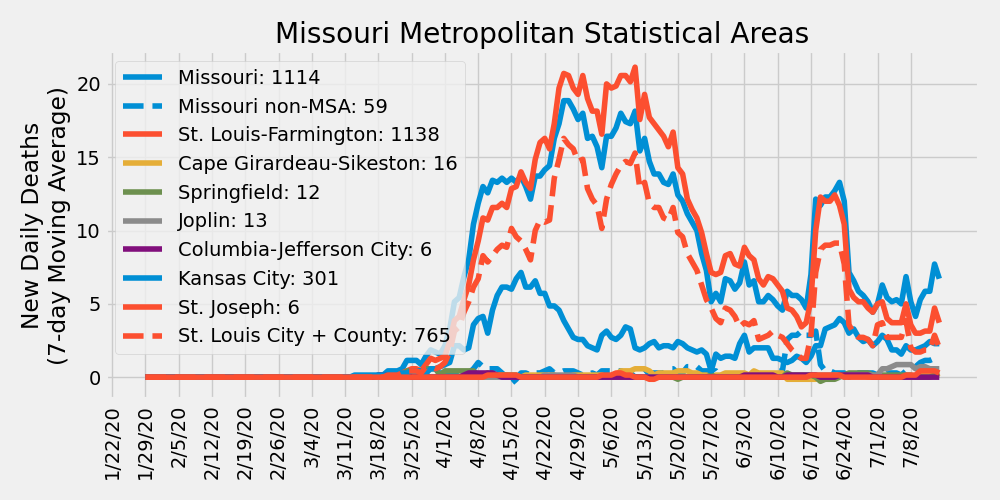
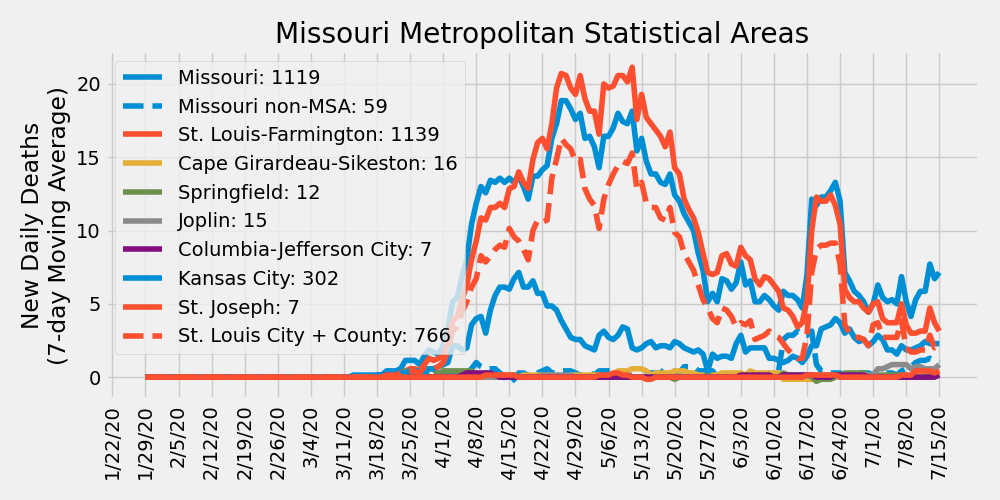
update 7/16/2020

diff --git a/ajvogt-analysis/missouri_analysis.md b/ajvogt-analysis/missouri_analysis.md
@@ -1,6 +1,6 @@
 # COVID-19 Missouri Statistics & Regional Breakdowns
 Author: Adam J. Vogt  
-Updated: 07/15/2020  
+Updated: 07/16/2020  
 Source: [COVID-19 Data Repository by the Center for Systems Science and Engineering (CSSE) at Johns Hopkins University](https://github.com/CSSEGISandData/COVID-19)  
 Source Code: `/ajvogt-analysis/mo_analysis_script.py`  
 Release Notes: [release_notes.md](https://github.com/ajvogt/COVID-19/blob/master/ajvogt-analysis/release_notes.md)
@@ -27,129 +27,129 @@ Legend shows cumulative confirmed cases
 ## Metropolitan Statistical Area (MSA) Counties
 | MSA | State | County | Total Cases | Total Deaths |
 |-----|-------|--------|---|---|
-| St. Louis-Farmington | Missouri | Lincoln | 122 | 1 |
-| St. Louis-Farmington | Missouri | Warren | 60 | 0 |
-| St. Louis-Farmington | Missouri | Franklin | 305 | 18 |
-| St. Louis-Farmington | Missouri | Jefferson | 613 | 22 |
-| St. Louis-Farmington | Missouri | St. Charles | 1437 | 79 |
-| St. Louis-Farmington | Missouri | St. Louis | 8140 | 604 |
-| St. Louis-Farmington | Missouri | St. Louis City | 3044 | 161 |
-| St. Louis-Farmington | Missouri | St. Francois | 173 | 2 |
-| St. Louis-Farmington | Illinois | Monroe | 170 | 13 |
-| St. Louis-Farmington | Illinois | St. Clair | 2386 | 145 |
-| St. Louis-Farmington | Illinois | Madison | 1285 | 71 |
-| St. Louis-Farmington | Illinois | Macoupin | 72 | 3 |
-| St. Louis-Farmington | Illinois | Jersey | 45 | 1 |
-| St. Louis-Farmington | Illinois | Clinton | 252 | 16 |
+| St. Louis-Farmington | Missouri | Lincoln | 127 | 1 |
+| St. Louis-Farmington | Missouri | Warren | 65 | 0 |
+| St. Louis-Farmington | Missouri | Franklin | 317 | 18 |
+| St. Louis-Farmington | Missouri | Jefferson | 635 | 22 |
+| St. Louis-Farmington | Missouri | St. Charles | 1496 | 79 |
+| St. Louis-Farmington | Missouri | St. Louis | 8300 | 605 |
+| St. Louis-Farmington | Missouri | St. Louis City | 3134 | 161 |
+| St. Louis-Farmington | Missouri | St. Francois | 174 | 2 |
+| St. Louis-Farmington | Illinois | Monroe | 171 | 13 |
+| St. Louis-Farmington | Illinois | St. Clair | 2436 | 145 |
+| St. Louis-Farmington | Illinois | Madison | 1310 | 71 |
+| St. Louis-Farmington | Illinois | Macoupin | 75 | 3 |
+| St. Louis-Farmington | Illinois | Jersey | 48 | 1 |
+| St. Louis-Farmington | Illinois | Clinton | 256 | 17 |
 | St. Louis-Farmington | Illinois | Calhoun | 2 | 0 |
-| St. Louis-Farmington | Illinois | Bond | 22 | 2 |
-| Cape Girardeau-Sikeston | Missouri | Cape Girardeau | 361 | 3 |
-| Cape Girardeau-Sikeston | Missouri | Bollinger | 27 | 1 |
-| Cape Girardeau-Sikeston | Illinois | Alexander | 25 | 0 |
-| Cape Girardeau-Sikeston | Missouri | Scott | 219 | 12 |
-| Springfield | Missouri | Greene | 492 | 9 |
-| Springfield | Missouri | Christian | 80 | 1 |
-| Springfield | Missouri | Webster | 55 | 1 |
-| Springfield | Missouri | Polk | 22 | 0 |
-| Springfield | Missouri | Dallas | 20 | 1 |
-| Joplin | Missouri | Jasper | 1056 | 11 |
-| Joplin | Missouri | Newton | 587 | 2 |
-| Columbia-Jefferson City | Missouri | Howard | 5 | 0 |
-| Columbia-Jefferson City | Missouri | Boone | 627 | 2 |
-| Columbia-Jefferson City | Missouri | Cooper | 30 | 0 |
-| Columbia-Jefferson City | Missouri | Moniteau | 68 | 1 |
-| Columbia-Jefferson City | Missouri | Cole | 116 | 2 |
+| St. Louis-Farmington | Illinois | Bond | 21 | 1 |
+| Cape Girardeau-Sikeston | Missouri | Cape Girardeau | 375 | 3 |
+| Cape Girardeau-Sikeston | Missouri | Bollinger | 30 | 0 |
+| Cape Girardeau-Sikeston | Illinois | Alexander | 26 | 0 |
+| Cape Girardeau-Sikeston | Missouri | Scott | 235 | 13 |
+| Springfield | Missouri | Greene | 517 | 9 |
+| Springfield | Missouri | Christian | 90 | 1 |
+| Springfield | Missouri | Webster | 60 | 1 |
+| Springfield | Missouri | Polk | 23 | 0 |
+| Springfield | Missouri | Dallas | 22 | 1 |
+| Joplin | Missouri | Jasper | 1090 | 13 |
+| Joplin | Missouri | Newton | 607 | 2 |
+| Columbia-Jefferson City | Missouri | Howard | 8 | 0 |
+| Columbia-Jefferson City | Missouri | Boone | 639 | 2 |
+| Columbia-Jefferson City | Missouri | Cooper | 32 | 0 |
+| Columbia-Jefferson City | Missouri | Moniteau | 69 | 2 |
+| Columbia-Jefferson City | Missouri | Cole | 126 | 2 |
 | Columbia-Jefferson City | Missouri | Callaway | 64 | 1 |
 | Columbia-Jefferson City | Missouri | Osage | 15 | 0 |
-| Kansas City | Missouri | Kansas City | 3215 | 36 |
-| Kansas City | Missouri | Jackson | 1646 | 46 |
-| Kansas City | Missouri | Clay | 579 | 13 |
-| Kansas City | Missouri | Cass | 217 | 8 |
-| Kansas City | Missouri | Platte | 164 | 6 |
+| Kansas City | Missouri | Kansas City | 3294 | 36 |
+| Kansas City | Missouri | Jackson | 1681 | 46 |
+| Kansas City | Missouri | Clay | 589 | 13 |
+| Kansas City | Missouri | Cass | 225 | 8 |
+| Kansas City | Missouri | Platte | 173 | 6 |
 | Kansas City | Missouri | Lafayette | 104 | 2 |
 | Kansas City | Missouri | Ray | 31 | 0 |
-| Kansas City | Missouri | Clinton | 35 | 0 |
+| Kansas City | Missouri | Clinton | 36 | 0 |
 | Kansas City | Missouri | Bates | 16 | 1 |
 | Kansas City | Missouri | Caldwell | 15 | 1 |
-| Kansas City | Kansas | Johnson | 3158 | 93 |
-| Kansas City | Kansas | Wyandotte | 3114 | 88 |
-| Kansas City | Kansas | Leavenworth | 1227 | 7 |
-| Kansas City | Kansas | Miami | 57 | 0 |
-| Kansas City | Kansas | Linn | 17 | 0 |
+| Kansas City | Kansas | Johnson | 3286 | 94 |
+| Kansas City | Kansas | Wyandotte | 3151 | 88 |
+| Kansas City | Kansas | Leavenworth | 1240 | 7 |
+| Kansas City | Kansas | Miami | 67 | 0 |
+| Kansas City | Kansas | Linn | 18 | 0 |
 | St. Joseph | Missouri | Andrew | 55 | 1 |
-| St. Joseph | Missouri | Buchanan | 956 | 5 |
-| St. Joseph | Missouri | DeKalb | 17 | 0 |
+| St. Joseph | Missouri | Buchanan | 955 | 6 |
+| St. Joseph | Missouri | DeKalb | 19 | 0 |
 | St. Joseph | Kansas | Doniphan | 26 | 0 |
-| Missouri non-MSA | Missouri | Adair |  102 | 0 |
+| Missouri non-MSA | Missouri | Adair |  103 | 0 |
 | Missouri non-MSA | Missouri | Atchison |  6 | 0 |
 | Missouri non-MSA | Missouri | Audrain |  143 | 1 |
-| Missouri non-MSA | Missouri | Barry |  105 | 0 |
-| Missouri non-MSA | Missouri | Barton |  37 | 0 |
+| Missouri non-MSA | Missouri | Barry |  125 | 0 |
+| Missouri non-MSA | Missouri | Barton |  41 | 0 |
 | Missouri non-MSA | Missouri | Benton |  26 | 0 |
 | Missouri non-MSA | Missouri | Butler |  122 | 0 |
-| Missouri non-MSA | Missouri | Camden |  90 | 2 |
-| Missouri non-MSA | Missouri | Carroll |  39 | 0 |
+| Missouri non-MSA | Missouri | Camden |  92 | 2 |
+| Missouri non-MSA | Missouri | Carroll |  41 | 0 |
 | Missouri non-MSA | Missouri | Carter |  8 | 1 |
-| Missouri non-MSA | Missouri | Cedar |  12 | 0 |
+| Missouri non-MSA | Missouri | Cedar |  15 | 0 |
 | Missouri non-MSA | Missouri | Chariton |  7 | 0 |
 | Missouri non-MSA | Missouri | Clark |  2 | 0 |
-| Missouri non-MSA | Missouri | Crawford |  23 | 0 |
+| Missouri non-MSA | Missouri | Crawford |  24 | 0 |
 | Missouri non-MSA | Missouri | Dade |  2 | 0 |
 | Missouri non-MSA | Missouri | Daviess |  11 | 0 |
 | Missouri non-MSA | Missouri | Dent |  9 | 0 |
-| Missouri non-MSA | Missouri | Douglas |  16 | 0 |
-| Missouri non-MSA | Missouri | Dunklin |  136 | 3 |
-| Missouri non-MSA | Missouri | Gasconade |  17 | 0 |
-| Missouri non-MSA | Missouri | Gentry |  67 | 9 |
+| Missouri non-MSA | Missouri | Douglas |  17 | 0 |
+| Missouri non-MSA | Missouri | Dunklin |  138 | 3 |
+| Missouri non-MSA | Missouri | Gasconade |  18 | 0 |
+| Missouri non-MSA | Missouri | Gentry |  68 | 9 |
 | Missouri non-MSA | Missouri | Grundy |  22 | 1 |
-| Missouri non-MSA | Missouri | Harrison |  31 | 0 |
+| Missouri non-MSA | Missouri | Harrison |  33 | 0 |
 | Missouri non-MSA | Missouri | Henry |  27 | 3 |
 | Missouri non-MSA | Missouri | Hickory |  1 | 0 |
 | Missouri non-MSA | Missouri | Holt |  1 | 0 |
-| Missouri non-MSA | Missouri | Howell |  52 | 0 |
+| Missouri non-MSA | Missouri | Howell |  54 | 0 |
 | Missouri non-MSA | Missouri | Iron |  3 | 0 |
 | Missouri non-MSA | Missouri | Knox |  2 | 0 |
-| Missouri non-MSA | Missouri | Laclede |  102 | 1 |
-| Missouri non-MSA | Missouri | Lawrence |  60 | 2 |
-| Missouri non-MSA | Missouri | Lewis |  9 | 1 |
+| Missouri non-MSA | Missouri | Laclede |  115 | 1 |
+| Missouri non-MSA | Missouri | Lawrence |  65 | 2 |
+| Missouri non-MSA | Missouri | Lewis |  8 | 1 |
 | Missouri non-MSA | Missouri | Livingston |  27 | 0 |
-| Missouri non-MSA | Missouri | McDonald |  743 | 1 |
-| Missouri non-MSA | Missouri | Macon |  28 | 0 |
+| Missouri non-MSA | Missouri | McDonald |  757 | 1 |
+| Missouri non-MSA | Missouri | Macon |  32 | 0 |
 | Missouri non-MSA | Missouri | Maries |  6 | 0 |
-| Missouri non-MSA | Missouri | Marion |  36 | 0 |
-| Missouri non-MSA | Missouri | Mercer |  7 | 0 |
-| Missouri non-MSA | Missouri | Miller |  28 | 0 |
-| Missouri non-MSA | Missouri | Mississippi |  99 | 0 |
-| Missouri non-MSA | Missouri | Montgomery |  22 | 0 |
+| Missouri non-MSA | Missouri | Marion |  38 | 0 |
+| Missouri non-MSA | Missouri | Mercer |  8 | 0 |
+| Missouri non-MSA | Missouri | Miller |  29 | 0 |
+| Missouri non-MSA | Missouri | Mississippi |  98 | 0 |
+| Missouri non-MSA | Missouri | Montgomery |  23 | 0 |
 | Missouri non-MSA | Missouri | Morgan |  28 | 0 |
-| Missouri non-MSA | Missouri | New Madrid |  57 | 1 |
+| Missouri non-MSA | Missouri | New Madrid |  79 | 1 |
 | Missouri non-MSA | Missouri | Nodaway |  26 | 0 |
 | Missouri non-MSA | Missouri | Oregon |  9 | 0 |
 | Missouri non-MSA | Missouri | Ozark |  2 | 0 |
-| Missouri non-MSA | Missouri | Pemiscot |  136 | 6 |
-| Missouri non-MSA | Missouri | Perry |  172 | 3 |
-| Missouri non-MSA | Missouri | Pettis |  163 | 2 |
+| Missouri non-MSA | Missouri | Pemiscot |  141 | 6 |
+| Missouri non-MSA | Missouri | Perry |  176 | 3 |
+| Missouri non-MSA | Missouri | Pettis |  166 | 2 |
 | Missouri non-MSA | Missouri | Phelps |  52 | 0 |
 | Missouri non-MSA | Missouri | Pike |  44 | 1 |
-| Missouri non-MSA | Missouri | Pulaski |  145 | 1 |
+| Missouri non-MSA | Missouri | Pulaski |  146 | 1 |
 | Missouri non-MSA | Missouri | Putnam |  3 | 0 |
 | Missouri non-MSA | Missouri | Ralls |  10 | 0 |
 | Missouri non-MSA | Missouri | Randolph |  21 | 0 |
 | Missouri non-MSA | Missouri | Reynolds |  10 | 0 |
-| Missouri non-MSA | Missouri | Ripley |  20 | 0 |
-| Missouri non-MSA | Missouri | Ste. Genevieve |  25 | 1 |
-| Missouri non-MSA | Missouri | Saline |  319 | 5 |
+| Missouri non-MSA | Missouri | Ripley |  22 | 0 |
+| Missouri non-MSA | Missouri | Ste. Genevieve |  26 | 1 |
+| Missouri non-MSA | Missouri | Saline |  324 | 5 |
 | Missouri non-MSA | Missouri | Schuyler |  5 | 0 |
 | Missouri non-MSA | Missouri | Scotland |  11 | 1 |
 | Missouri non-MSA | Missouri | Shannon |  29 | 0 |
 | Missouri non-MSA | Missouri | Shelby |  5 | 0 |
-| Missouri non-MSA | Missouri | Stoddard |  155 | 9 |
-| Missouri non-MSA | Missouri | Stone |  30 | 0 |
-| Missouri non-MSA | Missouri | Sullivan |  118 | 0 |
-| Missouri non-MSA | Missouri | Taney |  135 | 3 |
-| Missouri non-MSA | Missouri | Texas |  13 | 0 |
-| Missouri non-MSA | Missouri | Vernon |  36 | 0 |
-| Missouri non-MSA | Missouri | Washington |  27 | 1 |
-| Missouri non-MSA | Missouri | Wayne |  6 | 0 |
+| Missouri non-MSA | Missouri | Stoddard |  162 | 9 |
+| Missouri non-MSA | Missouri | Stone |  32 | 0 |
+| Missouri non-MSA | Missouri | Sullivan |  121 | 0 |
+| Missouri non-MSA | Missouri | Taney |  142 | 3 |
+| Missouri non-MSA | Missouri | Texas |  14 | 0 |
+| Missouri non-MSA | Missouri | Vernon |  38 | 0 |
+| Missouri non-MSA | Missouri | Washington |  28 | 1 |
+| Missouri non-MSA | Missouri | Wayne |  5 | 0 |
 | Missouri non-MSA | Missouri | Worth |  4 | 0 |
 | Missouri non-MSA | Missouri | Wright |  45 | 0 |
